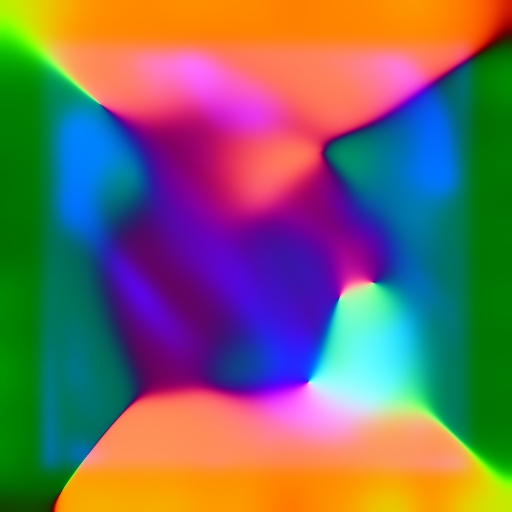
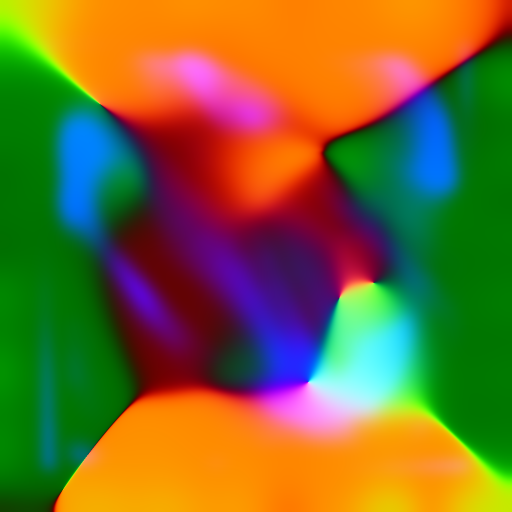
No.010 光の筋を明るい黄白に、石を枠より高く
Claude-Session: https://claude.ai/code/session_016FYwPZtfL2VXYvYEvMUPRr

diff --git a/buttons/010/model.js b/buttons/010/model.js
@@ -34,11 +34,13 @@ function buildJ() {
   const brushed = new THREE.MeshStandardMaterial({ color: 0xc9c9cc, metalness: 1, roughness: .42, envMapIntensity: 1.1 });
   const backFace = new THREE.MeshStandardMaterial({ map: tex(TEX.back), metalness: .9, roughness: .4, envMapIntensity: 1.1 });
   // toothed base plate (photo of the back on its underside), then the raised frame and the stone
-  const BZ = -.1, PZ = .02;
+  const BZ = -.1, PZ = .02, S0 = .813;
   grp.add(slab(teethOutline(.9, 1, 6), BZ, PZ, silver, backFace));
   grp.add(frame(.9, .83, PZ, .1, brushed));
   grp.add(frame(.835, .815, .06, .115, silver));
-  const S = .815, base = .07, rise = .14;
+  // red sides of the stone show above the frame
+  grp.add(new THREE.Mesh((() => { const g = new THREE.BoxGeometry(2 * S0, 2 * S0, .06); g.translate(0, 0, .13); return g; })(), new THREE.MeshPhysicalMaterial({ color: 0xa8231c, roughness: .2, clearcoat: 1, clearcoatRoughness: .05, envMapIntensity: .5 })));
+  const S = .815, base = .155, rise = .12;
   const z = (x, y) => { const u = Math.min(1, Math.abs(x) / S), v = Math.min(1, Math.abs(y) / S); return base + rise * (1 - Math.pow(u, 4)) * (1 - Math.pow(v, 4)); };
   const n = 90, pos = [], uv = [], idx = [];
   for (let j = 0; j <= n; j++) for (let i = 0; i <= n; i++) {
@@ -50,15 +52,15 @@ function buildJ() {
   sgeo.setAttribute('position', new THREE.Float32BufferAttribute(pos, 3)); sgeo.setAttribute('uv', new THREE.Float32BufferAttribute(uv, 2));
   sgeo.setIndex(idx); sgeo.computeVertexNormals();
   const pm = pearlMat(tex(TEX.front), loader.load(TEX.sheen));
-  pm.roughness = .2; pm.envMapIntensity = .4;
+  pm.roughness = .2; pm.envMapIntensity = .25;
   // coral-red shimmer instead of the pale pearl tint
   const basePm = pm.onBeforeCompile;
   pm.onBeforeCompile = (sh) => {
     basePm(sh);
     sh.fragmentShader = sh.fragmentShader
-      .replace('mix(vec3(1.0, 0.80, 0.74), vec3(0.86, 0.88, 1.0)', 'mix(vec3(1.0, 0.5, 0.36), vec3(1.0, 0.68, 0.5)')
-      .replace('tint * sh * fb.b * 0.85', 'tint * sh * fb.b * 0.32')
-      .replace('pow(s, 70.0)', 'pow(s, 160.0)')
+      .replace('mix(vec3(1.0, 0.80, 0.74), vec3(0.86, 0.88, 1.0)', 'mix(vec3(1.0, 0.86, 0.55), vec3(1.0, 0.95, 0.8)')
+      .replace('tint * sh * fb.b * 0.85', 'tint * sh * fb.b * 1.6')
+      .replace('pow(s, 70.0)', 'pow(s, 220.0)')
       .replace('float wob = (fb.b - 0.5) * 0.35 + sin(a2 * 3.0 + vUv.x * 40.0) * 0.08;', 'float wob = 0.0;');
   };
   const stone = new THREE.Mesh(sgeo, pm);
